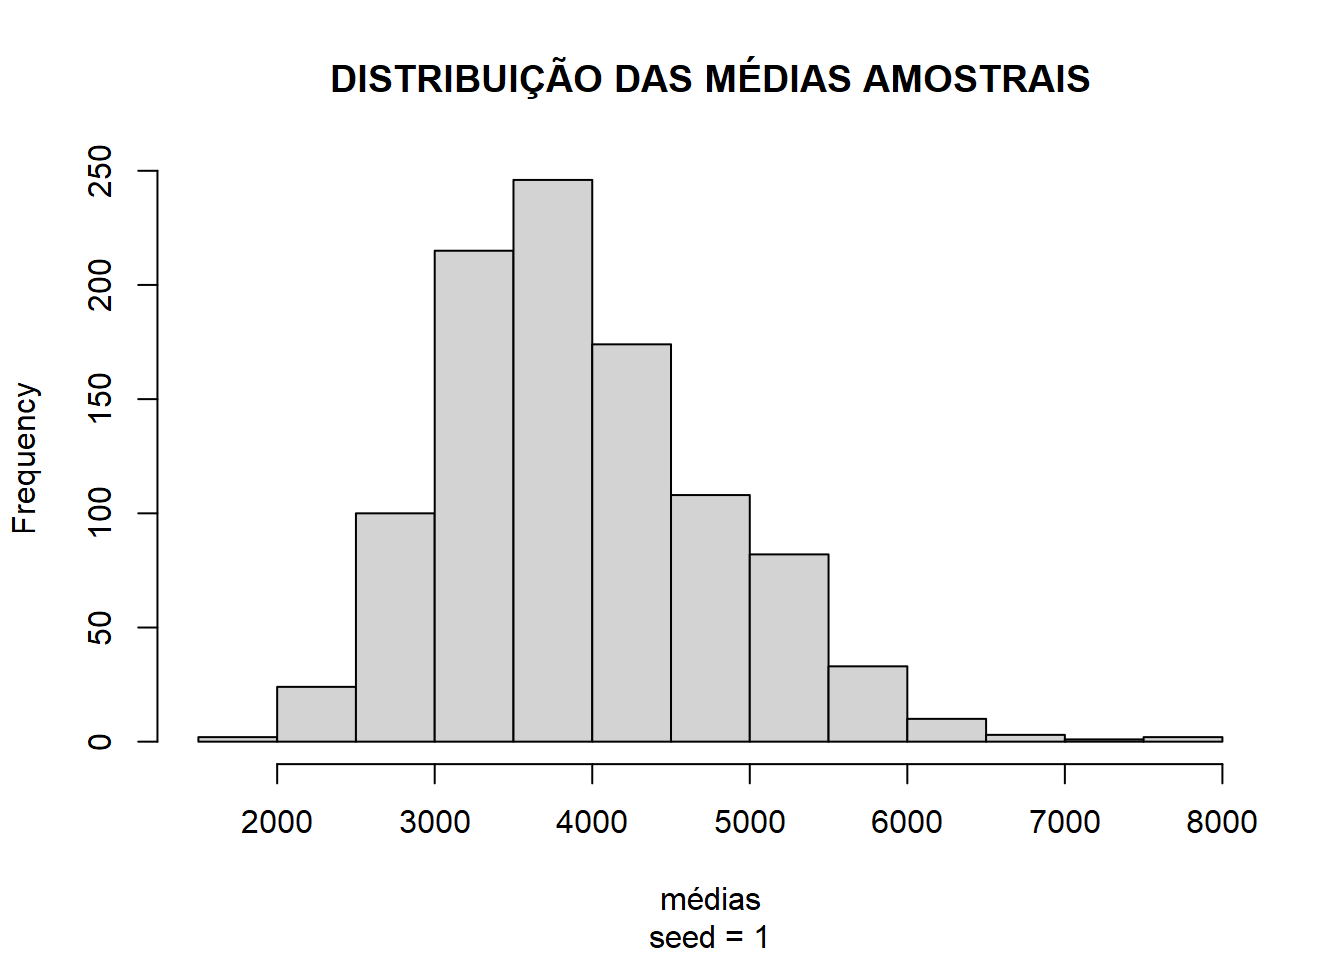
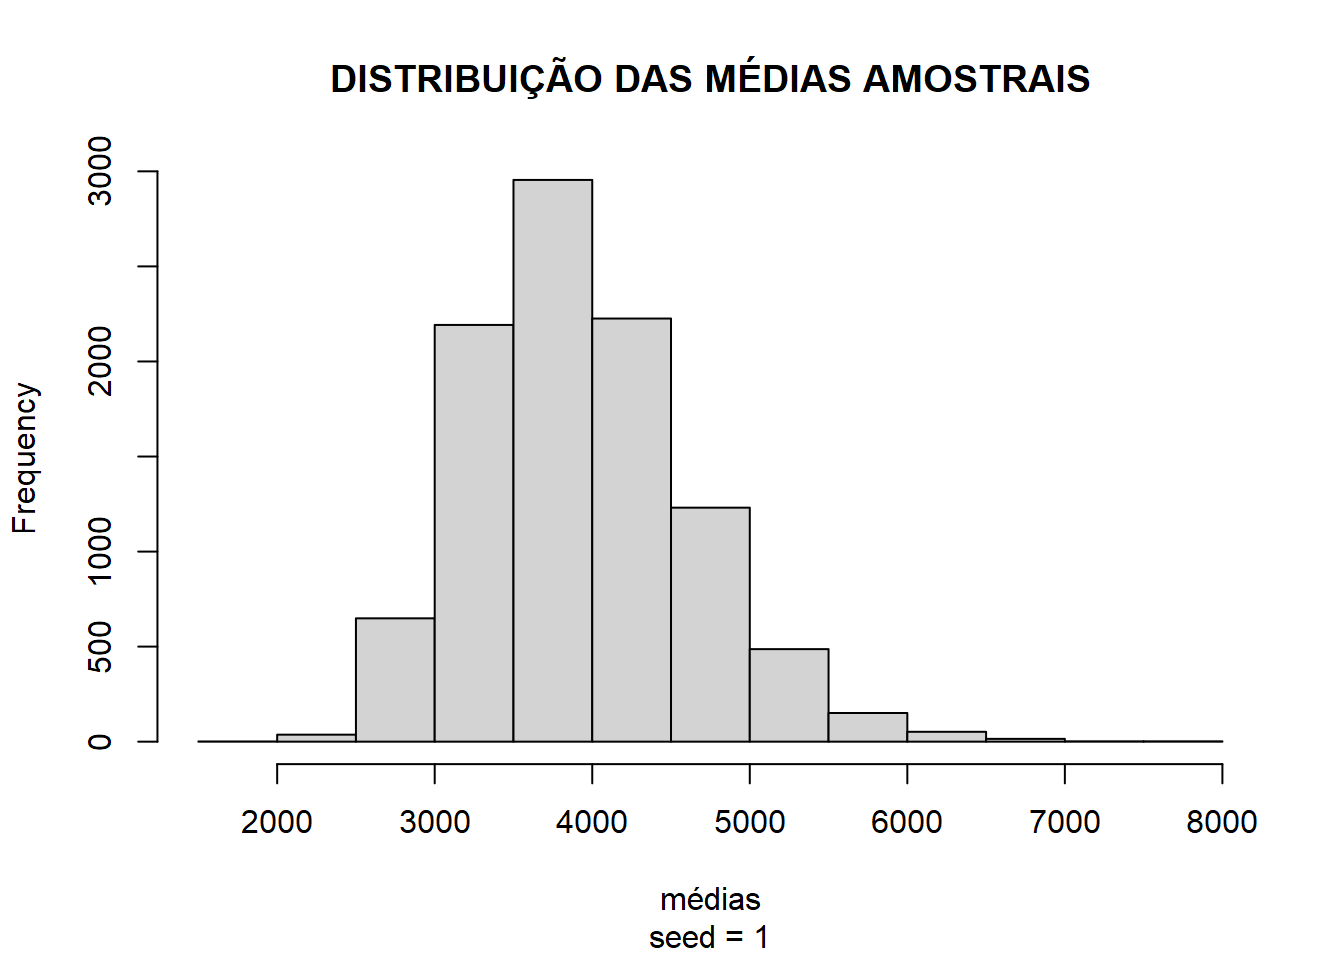
draft post desigualdade genero

diff --git a/content/post/2020-11-10-desigualdade-de-renda-entre-generos/index.html b/content/post/2020-11-10-desigualdade-de-renda-entre-generos/index.html
@@ -11,7 +11,7 @@ tags:
   - Reticulate
   - Inferencia
 description: Estudo de desigualdade de renda entre gêneros na cidade de Vitória-ES.
-toc: TRUE
+toc: true
 featured: yes
 featureImage: "gender.jpg"
 thumbnail: "images/reticulate.png"
@@ -21,7 +21,6 @@ codeLineNumbers: no
 figurePositionShow: yes
 ---
 
-<script src="index_files/header-attrs/header-attrs.js"></script>
 <link href="index_files/anchor-sections/anchor-sections.css" rel="stylesheet" />
 <script src="index_files/anchor-sections/anchor-sections.js"></script>
 
@@ -37,7 +36,7 @@ true
 <li>Manualmente, navegando em <a href="ftp://ftp.mtps.gov.br/pdet/microdados/RAIS/2017/ES2017.7z" class="uri">ftp://ftp.mtps.gov.br/pdet/microdados/RAIS/2017/ES2017.7z</a></li>
 <li>De forma programática via Python.</li>
 </ol>
-<p>Escolhi o Python aqui porque não conheço um pacote no CRAN<a href="#fn2" class="footnote-ref" id="fnref2"><sup>2</sup></a> que lide com compressão 7zip — se souber, por favor, indique nos comentários!. Se escolher baixar e descompactar via script, podemos executar códigos Python através do R com o {reticulate}:</p>
+<p>Escolhi o Python aqui porque não conheço um pacote no CRAN<a href="#fn2" class="footnote-ref" id="fnref2"><sup>2</sup></a> que lide com compressão 7zip — se souber, por favor, indique nos comentários! Se escolher baixar e descompactar via script, podemos executar códigos Python através do R com o {reticulate}:</p>
 <pre class="r"><code># ativando python
 library(reticulate)
 
@@ -229,12 +228,12 @@ qqnorm(data[data$sexo == 2, ]$rem_media,
   main = &quot;Q-Q PLOT: MULHERES&quot;)
 qqline(data[data$sexo == 2, ]$rem_media)</code></pre>
 <p><img src="index_files/figure-html/unnamed-chunk-5-2.png" width="672" /></p>
-<p>Podemos realizar um experimento para verificar a velocidade de convergência para a distribuição normal. Calculando a distribuição de mil médias de 30 homens cada, se ela apresentar distribuição próxima da normal poderemos assumir a normalidade e prosseguir com o trabalho. Caso contrário, precisaremos de tratar a base.</p>
+<p>Podemos realizar um experimento para verificar a velocidade de convergência para a distribuição normal. Calculando a distribuição de 10 mil médias de 50 homens cada, se ela apresentar distribuição próxima da normal poderemos assumir a normalidade e prosseguir com o trabalho. Caso contrário, precisaremos de tratar a base.</p>
 <pre class="r"><code># garantir reprodutibilidade
 set.seed(1)
 
 # quantidade de amostras
-n = 1000
+n = 10000
 
 # médias
 medias = rep(NA, n)
@@ -243,7 +242,7 @@ medias = rep(NA, n)
 for (i in 1:n) {
   medias[i] = mean(
     sample(data[data$sexo == 1, ]$rem_media,
-      size = 30, replace = TRUE
+      size = 50, replace = TRUE
     )
   )
 }
@@ -325,8 +324,12 @@ interpret_d(0.26, &quot;sawilowsky2009&quot;)</code></pre>
 ## minúsculo | muito.pequeno | pequeno | médio | grande | muito.grande
 ## -------------------------------------------------------------------
 ##      0.10 |          0.20 |    0.50 |  0.80 |   1.20 |            2</code></pre>
-<p>Um efeito de 0.26, considerado pequeno, equivale a dizer que 62% das mulheres teriam remuneração média abaixo da remuneração do homem médio em Vitória<a href="#fn4" class="footnote-ref" id="fnref4"><sup>4</sup></a>.</p>
+<p>Um efeito de 0.26, considerado pequeno, equivale a dizer que 62% das mulheres teriam remuneração média abaixo da remuneração do homem médio em Vitória<a href="#fn4" class="footnote-ref" id="fnref4"><sup>4</sup></a>. Claro que analisar o agregado significa olhar para a média. Como serão essas diferenças dentre as diversas profissões?</p>
 </div>
+</div>
+<div id="diferenças-entre-profissões" class="section level1">
+<h1>DIFERENÇAS ENTRE PROFISSÕES</h1>
+<p>Podemos estender nossa análise verificando em quais profissões há maior e menor divergência na remuneração entre</p>
 </div>
 <div class="footnotes">
 <hr />
